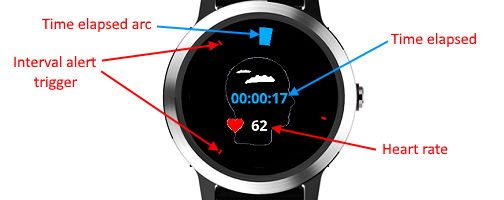
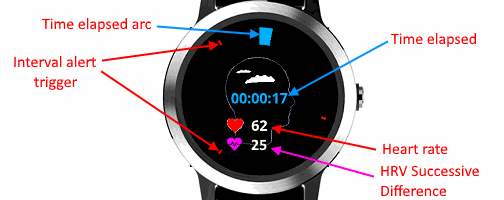
Updated the user guide with the HRV tracking functionality

diff --git a/UserGuide.md b/UserGuide.md
@@ -13,7 +13,7 @@
     - pNN20 - % of successive beat-to-beat intervals that differ by more than 20 ms
     - pNN50 - % of successive beat-to-beat intervals that differ by more than 50 ms
     - beat-to-beat interval - reading coming directly from the watch sensor
-    - HRV Successive Differences - difference between current and previous beat-to-beat intervals
+    - HRV Successive Differences - difference between the current and previous beat-to-beat intervals
     - SDRR - [Standard Deviation](https://en.wikipedia.org/wiki/Standard_deviation) of beat-to-beat intervals 
       - calculated from the first and last 5 min of the session
     - HRV RMSSD 30 Sec Window - RMSSD calculated for consecutive 30 second intervals    
@@ -28,6 +28,11 @@
     - tracks the overall min, avg and max HR
     - Stress
     - HRV
+
+
+![Session picker demo](userGuideScreenshots/sessionPickerDemo.gif)
+![Session demo detailed](userGuideScreenshots/sessionDetailedDemo.gif)
+
 
 ## How to Use
 ### 1. Starting a session
@@ -46,6 +51,10 @@
     - you can hide them per alert by selecting transparent color from the [Interval Alerts settings menu](#2-configuring-a-session)
 - time elapsed 
 - current HR
+- current HRV Successive Difference 
+  - difference between the current and previous beat-to-beat intervals measured in milliseconds
+  - shows only when HRV tracking is on
+  - **to get good HRV readings you need to minimise wrist movement**
 
 The meditation session finishes once you press the stop button.
 
@@ -59,13 +68,9 @@ The meditation session finishes once you press the stop button.
 
 1.4. If you are in single session mode (the default) at the end you see the Summary Screen (for Multi-Session mode see the next section **1.5**). Swipe up/down (Vivoactive 3) or press page up/down buttons to see the summary stats of HR, Stress and HRV. Go back from this view to exit the app.
 
-![Summary HR](userGuideScreenshots/summaryHr.png)
-![Summary stress](userGuideScreenshots/summaryStress.png)
-![Summary HRV RMSSD](userGuideScreenshots/summaryHrvRmssd.png)
-![Summary HRV pNNx](userGuideScreenshots/summaryHrvPnnx.png)
-![Summary HRV SDRR](userGuideScreenshots/summaryHrvSdrr.png)
+![Session Summary Detailed Demo](userGuideScreenshots/sessionSummaryDetailedDemo.gif)
 
-1.5 If you are in multi-session mode (determined by [Global Settings](#4-global-settings) -> [Multi-Session](#44-multi-session)) then you go back to the session picker screen. From there you can start another session. Once you finished your session you can go back from the session picker screen to enter the Sessions Summary view.
+1.5 If you are in multi-session mode (determined by [Global Settings](#4-global-settings) -> [Multi-Session](#44-multi-session)) then you go back to the session picker screen. From there you can start another session. Once you finish your session you can go back from the session picker screen to enter the Sessions Summary view.
 
 ![Summary Rollup](userGuideScreenshots/summaryRollup.png)
 
@@ -94,6 +99,21 @@ The meditation session finishes once you press the stop button.
     - Color - the color of the current interval alert used in the graphical controls. Select different colors for each alert to differentiate them during meditation. Select transparent color if you don't want to see visual marks for the alert during meditation
     - Vibe Pattern - shorter or longer patterns ranging from pulsating or continuous
 - Activity Type - ability to save the session as **Meditating** or **Yoga**. You can configure default activity type for new sessions from the Global Settings ([see section 4](#4-global-settings)).
+- HRV Tracking - determines if HRV and stress are tracked
+  - ON (Default) - tracks stress and the following HRV metrics
+    - RMSSD
+    - HRV Successive Differences
+  - On Detailed - tracks extra stress and HRV metrics in addition to the **On** option
+    - RMSSD
+    - HRV Successive Differences
+    - pNN20 
+    - pNN50
+    - beat-to-beat interval
+    - SDRR First 5 min of the session
+    - SDRR Last 5 min of the session
+    - RMSSD 30 Sec Window
+    - HR from heartbeat
+    - HR Peaks 10 Sec Window
 
 2.3 Delete - deletes a session after asking for confirmation
 
@@ -109,6 +129,19 @@ On this screen you can see the applicable settings for the selected session
 - time - total duration of the session
 - vibe pattern
 - interval alert triggers - the graph in the middle of the screen represents the relative alert triger time compared to the total session time
+- HRV indicator
+  - ![Off](userGuideScreenshots/hrvIndicatorOff.png) Off - indicates that stress and HRV are turned off
+  - ![Waiting HRV](userGuideScreenshots/hrvIndicatorWaitingHrv.png) Waiting HRV 
+    - the hardware sensor does not detect HRV
+    - you can start the session but you will have missing HRV data
+  - ![HRV Ready](userGuideScreenshots/hrvIndicatorReady.png) HRV Ready 
+    - the hardware sensor detects HRV
+    - the session tracks default HRV and Stress metrics
+    - **the session can be recored with reliable HRV data provided you minimize wrist movement**
+  - ![HRV Ready Detailed](userGuideScreenshots/hrvIndicatorReadyDetailed.png) HRV Ready 
+    - the hardware sensor detects HRV
+    - the session tracks extended HRV and Stress metrics
+    - **the session can be recored with reliable HRV data provided you minimize wrist movement**
 
 ![Session picker yoga explained](userGuideScreenshots/sessionPickerYogaExplained.png)
 
@@ -121,6 +154,8 @@ From the session picker screen hold the menu button (for Vivoactive 3 hold on th
 To change the settings hold the menu button (for Vivoactive 3 hold on the screen) until you see the Global Settings menu. There you can select the setting you want to change.
 
 #### 4.1 HRV Tracking
+
+This setting provides the default **HRV Tracking** for new sessions.
 
 - **On** - tracks default HRV metrics and Stress
     - RMSSD

diff --git a/README.md b/README.md
@@ -32,9 +32,7 @@ A Garmin Connect IQ meditation app that tracks as an activity the heart rate, HR
     - HRV
 
 ![Session picker demo](userGuideScreenshots/sessionPickerDemo.gif)
-![Session demo](userGuideScreenshots/sessionDemo.gif)
 ![Session demo detailed](userGuideScreenshots/sessionDetailedDemo.gif)
-![Session in-progress explained](userGuideScreenshots/sessionInProgressExplained.png)
 
 ## Supported Devices
 - Vivoactive 3, Vivoactive 3 Music 
